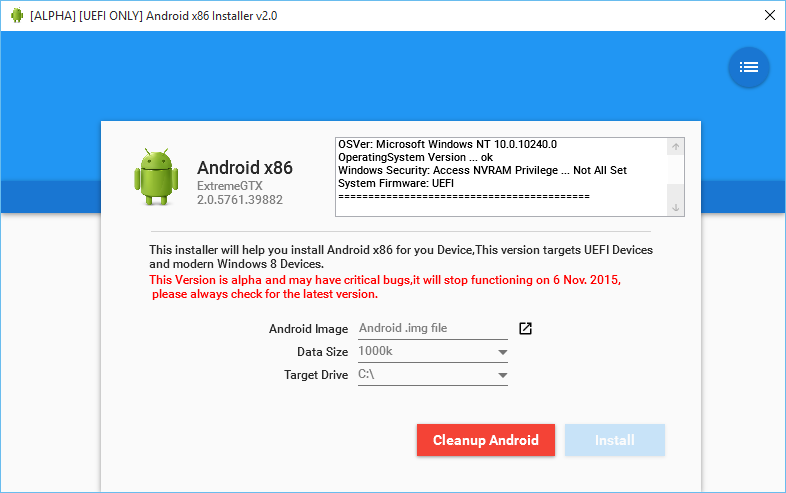
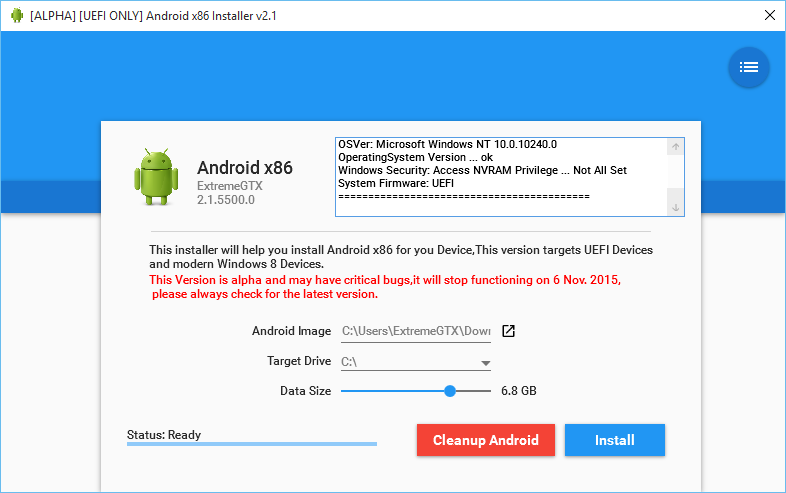
Update Docs
Update Screenshot
Update Readme

diff --git a/README.md b/README.md
@@ -12,20 +12,31 @@ This installer will help users install Android-x86 on PC from windows, without H
 
 ## Requirements
 - UEFI-Enabled x64 PC
+- Secure Boot Disabled
 - Windows 8/8.1/10
 - .Net Framework 4.5
 - Android System image with **UEFI** Support from [Android-x86.org](www.android-x86.org)
 
 
-## Tested devices
-- MSI Z97 Gaming 5
-- VMWare player 7
+## Change log
+v2.1
+ - User-defined Data size
+ - Responsive UI
+ - Installation Status update
+ - Support Devices with 32-bit firmware
+ - Support booting from NTFS with compression enabled
+ - log includes more info about Device BIOS
+
+v2.0
+ - Initial Version
+
 
 ## Build Instructions
 TODO
 
 
 ## External Components used:
+- GRUB2 Bootloader [GNU GRUB](https://www.gnu.org/software/grub/)
 - Android icon by [benbackman](http://benbackman.deviantart.com/art/Android-Icon-178754467)
 - MaterialDesignXamlToolkit by [ButchersBoy](https://github.com/ButchersBoy/MaterialDesignInXamlToolkit)
 - 7zip by [Igor Pavlov](http://www.7-zip.org/)
